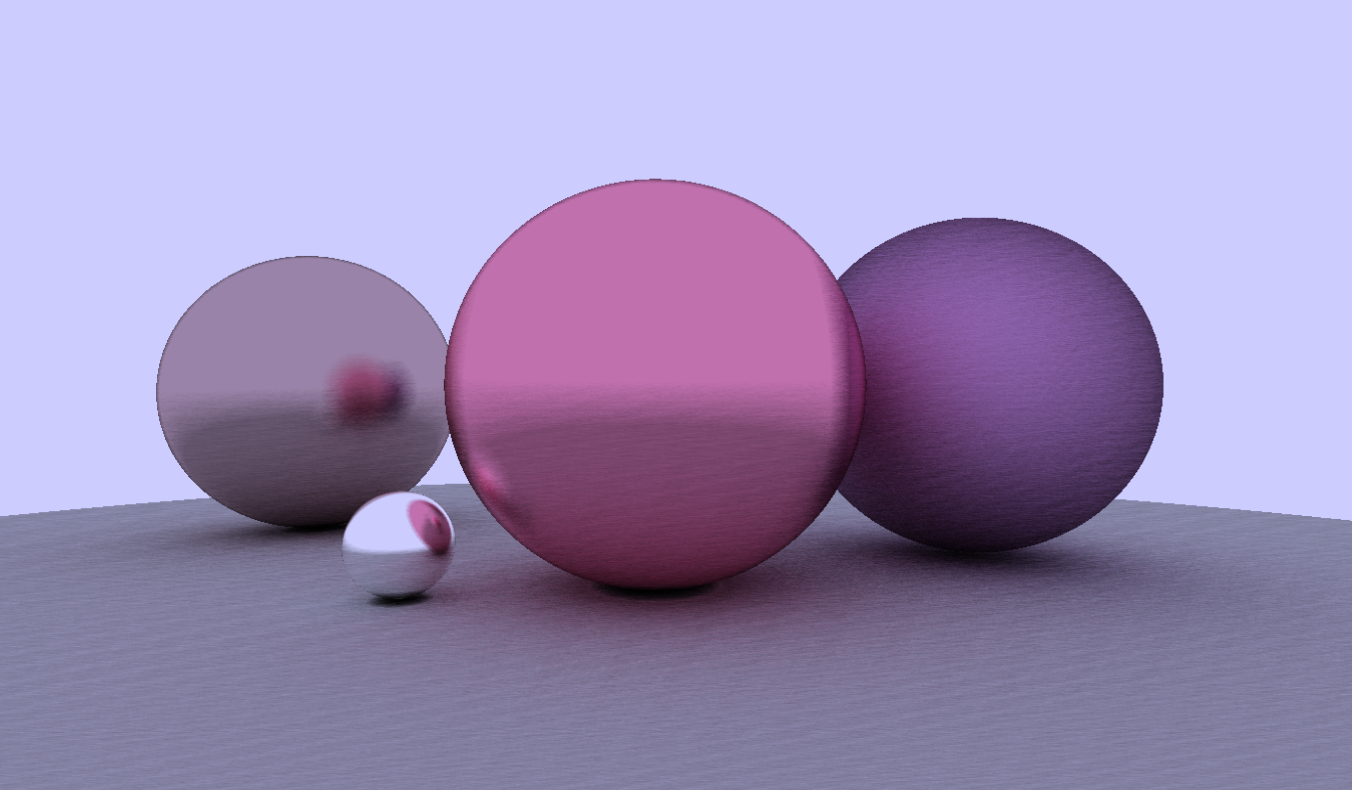
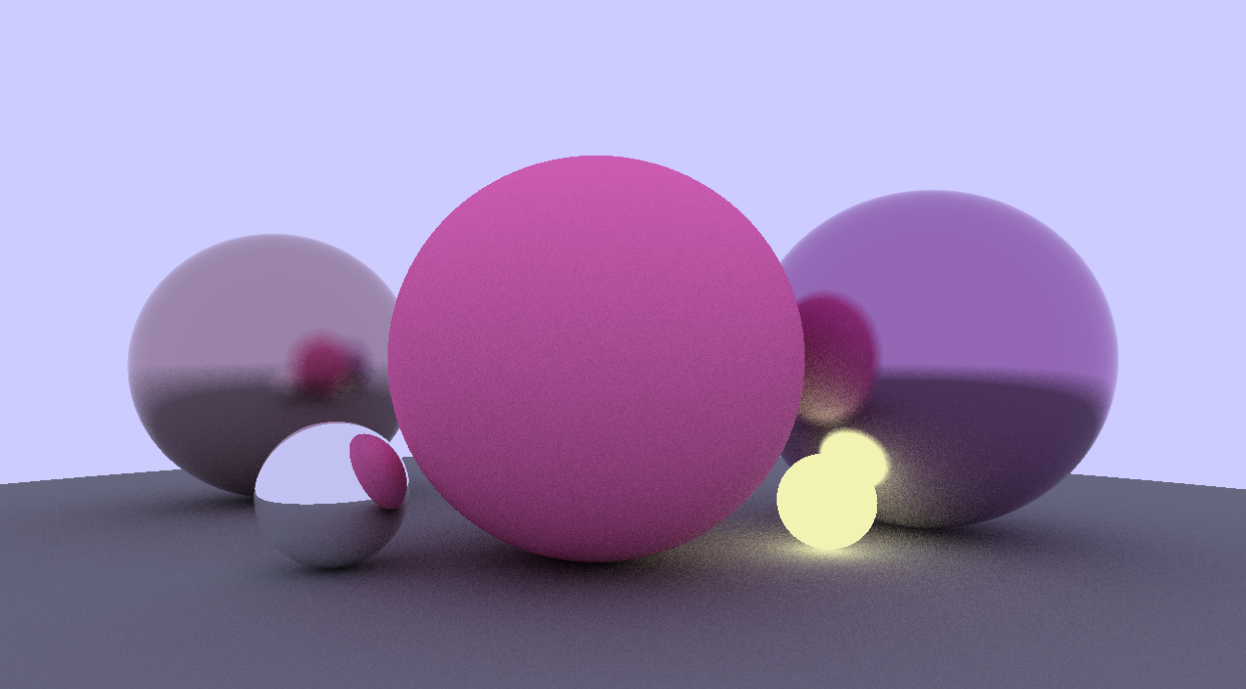
fix diffuse formula

diff --git a/src/main.cpp b/src/main.cpp
@@ -97,7 +97,7 @@ public:
 		// Create Instance 4 of sphere (small left)
 		Utils::CreateInstance(
 			world_objs,
-			DirectX::XMFLOAT3(1.2f, -0.65f, 0.0f),
+			DirectX::XMFLOAT3(1.25f, -0.65f, 0.0f),
 			DirectX::XMFLOAT3(0.35f, 0.35f, 0.35f),
 			DirectX::XMFLOAT4(0.0f, 0.0f, 0.0f, 1.0f),
 			4,
